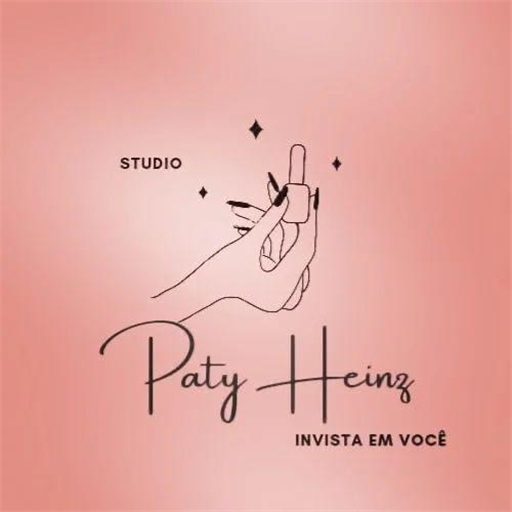
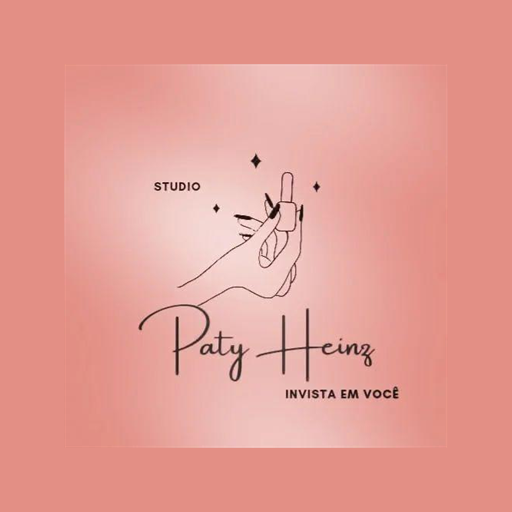
FIRST COMMIT2

diff --git a/app/configuracoes/page.tsx b/app/configuracoes/page.tsx
@@ -41,6 +41,17 @@ export default function ConfiguracoesPage() {
     if (bgSalvo) setFundoAtivo(bgSalvo);
   }, [corSalva, bgSalvo]);
 
+  // Mostra a cor de fundo imediatamente enquanto a pessoa escolhe.
+  // Se sair sem salvar, o tema persistido volta a ser aplicado.
+  useEffect(() => {
+    const root = document.documentElement;
+    root.style.setProperty("--color-background", fundoAtivo);
+
+    return () => {
+      root.style.setProperty("--color-background", bgSalvo || "#FFF7F7");
+    };
+  }, [fundoAtivo, bgSalvo]);
+
   const handleLogout = async () => {
     await supabase.auth.signOut();
     router.push("/login");
@@ -89,9 +100,6 @@ export default function ConfiguracoesPage() {
             ))}
           </div>
 
-          <button onClick={handleSaveColor} className="w-full bg-primary text-white font-bold py-3.5 rounded-xl transition hover:opacity-90">
-             {loadingConfig ? "Salvando..." : "Salvar Preferências"}
-          </button>
         </div>
 
         {/* Bloco de Fundos */}
@@ -102,19 +110,46 @@ export default function ConfiguracoesPage() {
 
           <div className="grid grid-cols-2 gap-4 mb-6">
             {fundos.map(f => (
-              <div 
+              <button
+                type="button"
                 key={f.bg}
                 onClick={() => setFundoAtivo(f.bg)}
-                className={`p-4 rounded-xl border flex items-center justify-between cursor-pointer transition ${fundoAtivo === f.bg ? 'border-primary ring-1 ring-primary bg-primary/5' : 'border-gray-100 hover:border-gray-200'}`}
+                className={`p-3 rounded-xl border flex items-center justify-between cursor-pointer transition text-left ${fundoAtivo === f.bg ? 'border-primary ring-1 ring-primary' : 'border-gray-100 hover:border-gray-200'}`}
+                style={{
+                  background: `linear-gradient(135deg, ${f.bg} 0%, ${f.bg} 58%, #FFFFFF 58%, #FFFFFF 100%)`,
+                }}
               >
                 <div className="flex items-center gap-3">
-                  <div className="w-6 h-6 rounded-full border border-gray-200" style={{ backgroundColor: f.bg }}></div>
+                  <div
+                    className="w-10 h-8 rounded-lg border border-gray-300 shadow-inner shrink-0"
+                    style={{ backgroundColor: f.bg }}
+                  ></div>
                   <span className="text-sm font-semibold text-gray-700">{f.nome}</span>
                 </div>
                 {fundoAtivo === f.bg && <CheckCircle2 size={16} className="text-primary" />}
-              </div>
+              </button>
             ))}
           </div>
+
+          <div
+            className="rounded-2xl border border-gray-200 p-4 mb-6 transition-colors duration-300"
+            style={{ backgroundColor: fundoAtivo }}
+          >
+            <p className="text-[10px] font-black uppercase tracking-widest text-gray-500 mb-2">Prévia do fundo</p>
+            <div className="bg-white rounded-xl border border-gray-100 p-4 shadow-sm">
+              <p className="font-bold text-gray-800">Studio Paty Heinz</p>
+              <p className="text-xs text-gray-500 mt-1">Assim os cartões aparecerão sobre o fundo escolhido.</p>
+            </div>
+          </div>
+
+          <button
+            type="button"
+            onClick={handleSaveColor}
+            disabled={loadingConfig}
+            className="w-full bg-primary text-white font-bold py-3.5 rounded-xl transition hover:opacity-90 disabled:opacity-60"
+          >
+            {loadingConfig ? "Salvando..." : "Salvar Cores do Aplicativo"}
+          </button>
         </div>
 
         {/* Zona de Perigo / Conta */}

diff --git a/components/layout/Sidebar.tsx b/components/layout/Sidebar.tsx
@@ -57,8 +57,8 @@ export function Sidebar() {
       {/* MOBILE TOP BAR */}
       <div className="md:hidden flex items-center justify-between p-4 bg-white border-b border-gray-100 w-full shrink-0 no-print">
         <Link href="/" className="flex items-center gap-3 group">
-           <div className="relative w-10 h-10 rounded-full overflow-hidden border-2 border-white shadow-md shadow-primary/20 ring-1 ring-primary/5 group-hover:scale-105 transition-transform duration-300">
-             <Image src="/logo.jpeg" alt="Studio Paty Heinz" fill className="object-cover" sizes="40px" />
+           <div className="relative w-10 h-10 rounded-xl overflow-hidden border-2 border-white bg-[#E38F85] shadow-md shadow-primary/20 ring-1 ring-primary/5 group-hover:scale-105 transition-transform duration-300">
+             <Image src="/logo.jpeg" alt="Studio Paty Heinz" fill className="object-contain" sizes="40px" />
            </div>
            <span className="font-black text-lg text-gray-900 tracking-tight uppercase">Studio Paty Heinz</span>
         </Link>
@@ -85,13 +85,13 @@ export function Sidebar() {
 
         {/* Logo and Branding */}
       <Link href="/" onClick={() => setIsOpen(false)} className="pt-10 pb-8 border-b border-gray-50 flex flex-col items-center justify-center gap-4 group">
-        <div className="relative w-28 h-28 rounded-full overflow-hidden border-4 border-white shadow-xl shadow-primary/20 ring-2 ring-primary/5 group-hover:scale-105 transition-transform duration-300">
+        <div className="relative w-32 h-32 rounded-3xl overflow-hidden border-4 border-white bg-[#E38F85] shadow-xl shadow-primary/20 ring-2 ring-primary/5 group-hover:scale-105 transition-transform duration-300">
            <Image 
              src="/logo.jpeg" 
              alt="Studio Paty Heinz" 
              fill 
-             className="object-cover"
-             sizes="112px"
+             className="object-contain"
+             sizes="128px"
              priority
            />
         </div>

diff --git a/app/login/page.tsx b/app/login/page.tsx
@@ -36,13 +36,13 @@ export default function LoginPage() {
     <div className="min-h-screen flex items-center justify-center bg-gray-50 px-4">
       <div className="max-w-md w-full bg-white rounded-3xl shadow-xl p-8 border border-gray-100">
         <div className="text-center mb-10 mt-4">
-          <div className="relative w-32 h-32 mx-auto mb-6 rounded-full overflow-hidden border-4 border-white shadow-2xl shadow-primary/30 ring-4 ring-primary/10 transition-transform hover:scale-105 duration-500">
+          <div className="relative w-40 h-40 mx-auto mb-6 rounded-3xl overflow-hidden border-4 border-white bg-[#E38F85] shadow-2xl shadow-primary/30 ring-4 ring-primary/10 transition-transform hover:scale-105 duration-500">
             <Image 
               src="/logo.jpeg" 
               alt="Logo Studio Paty Heinz" 
               fill 
-              className="object-cover"
-              sizes="128px"
+              className="object-contain"
+              sizes="160px"
               priority
             />
           </div>

diff --git a/public/sw.js b/public/sw.js
@@ -1,4 +1,4 @@
-const CACHE_NAME = 'paty-heinz-studio-v1';
+const CACHE_NAME = 'paty-heinz-studio-v2';
 const OFFLINE_URL = '/offline.html';
 
 const ASSETS_TO_CACHE = [
